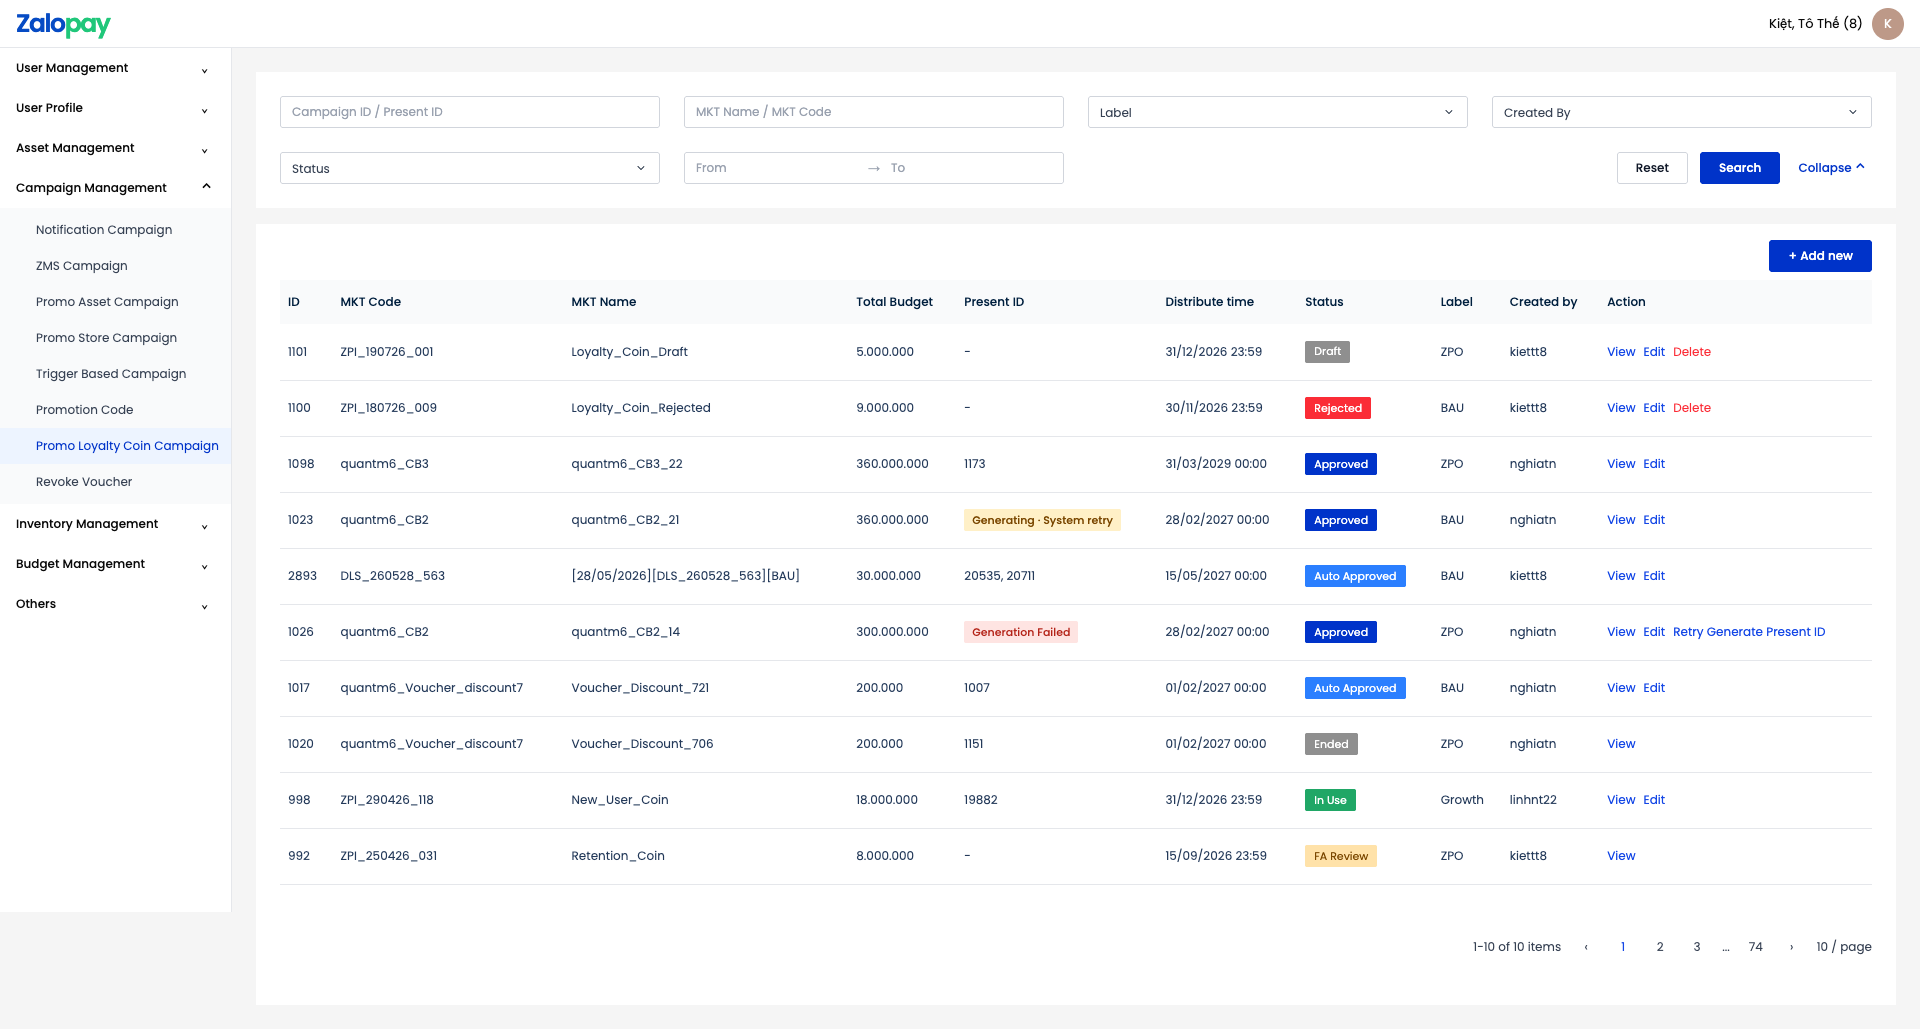
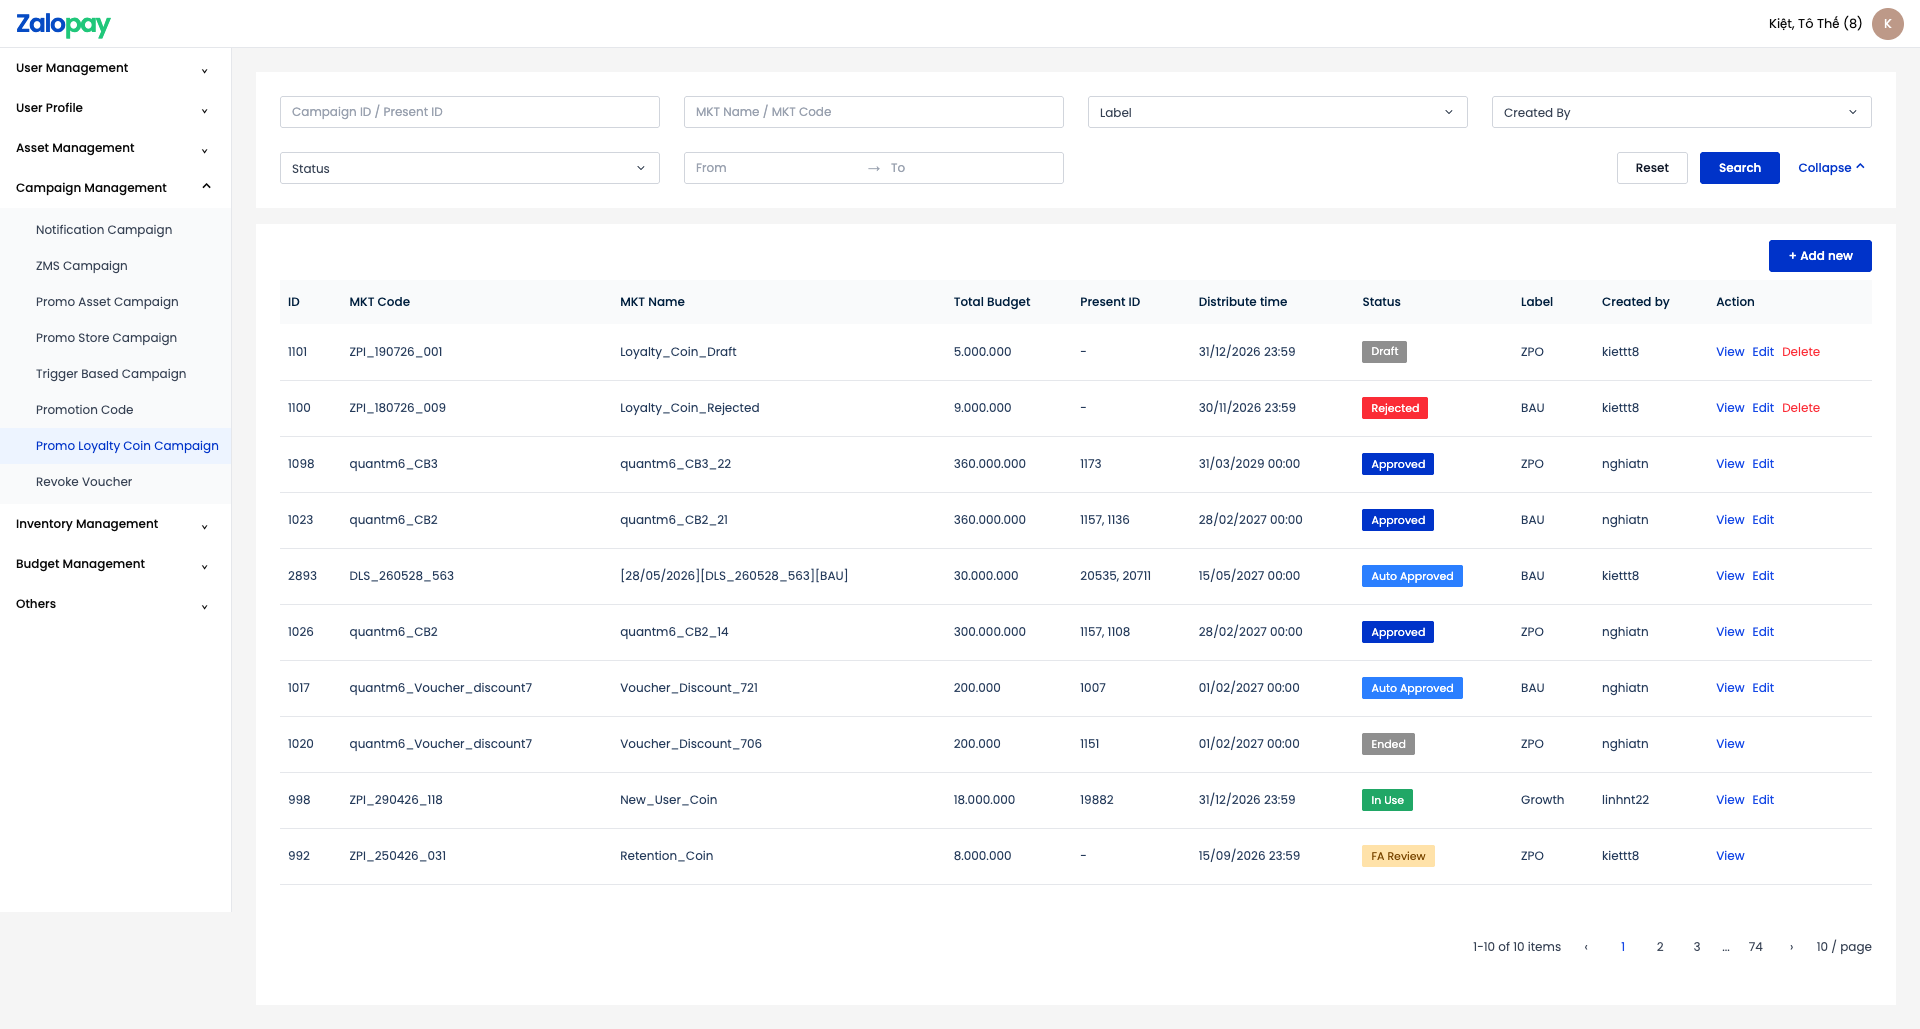
Revert "Add Present ID retry and recovery states"
This reverts commit 77b4abea8671992b141d9d23aaec8f0cdd7a74c2.

diff --git a/app.js b/app.js
@@ -34,9 +34,9 @@ const state = {
     { id: 1101, name: "Loyalty_Coin_Draft", code: "ZPI_190726_001", budget: 5000000, presents: [], coins: [300, 500], time: "31/12/2026 23:59", status: "Draft", label: "ZPO", owner: "kiettt8" },
     { id: 1100, name: "Loyalty_Coin_Rejected", code: "ZPI_180726_009", budget: 9000000, presents: [], coins: [900], time: "30/11/2026 23:59", status: "Rejected", label: "BAU", owner: "kiettt8" },
     { id: 1098, name: "quantm6_CB3_22", code: "quantm6_CB3", budget: 360000000, budgetMethod: "package", packageBudgets: [300000000], consumedBudgets: [120000000], presents: [1173], coins: [30000], time: "31/03/2029 00:00", status: "Approved", label: "ZPO", owner: "nghiatn" },
-    { id: 1023, name: "quantm6_CB2_21", code: "quantm6_CB2", budget: 360000000, budgetMethod: "package", packageBudgets: [150000000, 150000000], consumedBudgets: [80000000, 100000000], presents: [], coins: [10000, 30000], time: "28/02/2027 00:00", status: "Approved", generationStatus: "Generating", generationAttempt: 2, label: "BAU", owner: "nghiatn" },
+    { id: 1023, name: "quantm6_CB2_21", code: "quantm6_CB2", budget: 360000000, budgetMethod: "package", packageBudgets: [150000000, 150000000], consumedBudgets: [80000000, 100000000], presents: [1157, 1136], coins: [10000, 30000], time: "28/02/2027 00:00", status: "Approved", label: "BAU", owner: "nghiatn" },
     { id: 2893, name: "[28/05/2026][DLS_260528_563][BAU]", code: "DLS_260528_563", budget: 30000000, consumedBudgets: [5000000, 8000000], presents: [20535, 20711], coins: [304, 30000], time: "15/05/2027 00:00", status: "Auto Approved", label: "BAU", owner: "kiettt8" },
-    { id: 1026, name: "quantm6_CB2_14", code: "quantm6_CB2", budget: 300000000, presents: [], coins: [5000, 20000], time: "28/02/2027 00:00", status: "Approved", generationStatus: "Failed", generationAttempt: 4, generationLastError: "zpp-promotion-present timeout", generationFailedAt: "20/07/2026 09:42", label: "ZPO", owner: "nghiatn" },
+    { id: 1026, name: "quantm6_CB2_14", code: "quantm6_CB2", budget: 300000000, presents: [1157, 1108], coins: [5000, 20000], time: "28/02/2027 00:00", status: "Approved", label: "ZPO", owner: "nghiatn" },
     { id: 1017, name: "Voucher_Discount_721", code: "quantm6_Voucher_discount7", budget: 200000, budgetMethod: "package", packageBudgets: [150000], consumedBudgets: [0], presents: [1007], coins: [1000], time: "01/02/2027 00:00", status: "Auto Approved", label: "BAU", owner: "nghiatn" },
     { id: 1020, name: "Voucher_Discount_706", code: "quantm6_Voucher_discount7", budget: 200000, presents: [1151], coins: [500], time: "01/02/2027 00:00", status: "Ended", label: "ZPO", owner: "nghiatn" },
     { id: 998, name: "New_User_Coin", code: "ZPI_290426_118", budget: 18000000, budgetMethod: "package", packageBudgets: [12000000], consumedBudgets: [11000000], presents: [19882], coins: [10000], time: "31/12/2026 23:59", status: "In Use", label: "Growth", owner: "linhnt22" },
@@ -48,8 +48,6 @@ state.campaigns = state.campaigns.map((campaign, campaignIndex) => {
   const coins = campaign.coins.length ? campaign.coins : [300];
   const packageBudget = Math.floor(campaign.budget / coins.length);
   return {
-    generationStatus: campaign.generationStatus || (campaign.presents.length ? "Ready" : "Not Started"),
-    generationAttempt: campaign.generationAttempt || 0,
     budgetMethod: campaign.budgetMethod || "campaign",
     budgetType: campaign.code.startsWith("DLS_") ? "shared" : "campaign",
     allocatedBudget: campaign.budget,
@@ -134,21 +132,14 @@ function route(name, payload = {}) {
 function actionButtons(item) {
   const actions = [`<button data-view="${item.id}">View</button>`];
   if (["Draft", "Rejected", "Auto Approved", "Approved", "In Use"].includes(item.status)) actions.push(`<button data-edit="${item.id}">Edit</button>`);
-  if (item.generationStatus === "Failed") actions.push(`<button data-retry-generation="${item.id}">Retry Generate Present ID</button>`);
   if (["Draft", "Rejected"].includes(item.status)) actions.push(`<button class="danger-action" data-delete="${item.id}">Delete</button>`);
   return actions.join("");
-}
-
-function presentDisplay(item) {
-  if (item.generationStatus === "Generating") return '<span class="generation-state generating">Generating · System retry</span>';
-  if (item.generationStatus === "Failed") return '<span class="generation-state failed">Generation Failed</span>';
-  return item.presents.join(", ") || "-";
 }
 
 function renderRows(rows = state.campaigns) {
   const body = document.getElementById("campaignRows");
   body.innerHTML = rows.map(item => `<tr>
-    <td>${item.id}</td><td>${item.code}</td><td>${item.name}</td><td>${money(item.allocatedBudget)}</td><td>${presentDisplay(item)}</td><td>${item.time}</td>
+    <td>${item.id}</td><td>${item.code}</td><td>${item.name}</td><td>${money(item.allocatedBudget)}</td><td>${item.presents.join(", ") || "-"}</td><td>${item.time}</td>
     <td><span class="status ${statusClass(item.status)}">${item.status}</span></td><td>${item.label}</td><td>${item.owner}</td>
     <td><div class="row-actions">${actionButtons(item)}</div></td>
   </tr>`).join("");
@@ -182,7 +173,6 @@ function initList() {
     if (!action) return;
     if (action.dataset.view) route("form", { mode: "view", id: Number(action.dataset.view) });
     if (action.dataset.edit) route("form", { mode: "edit", id: Number(action.dataset.edit) });
-    if (action.dataset.retryGeneration) retryPresentGeneration(Number(action.dataset.retryGeneration));
     if (action.dataset.delete) {
       const id = Number(action.dataset.delete);
       state.campaigns = state.campaigns.filter(item => item.id !== id);
@@ -213,7 +203,6 @@ function initForm(options = {}) {
   bindTagInput("emailInput", "email");
   bindTagInput("thresholdInput", "threshold");
   renderPackages();
-  renderGenerationNotice(campaign);
   renderTags("email");
   renderTags("threshold");
   bindValidationClear();
@@ -239,53 +228,7 @@ function hydrateCampaignForm(campaign) {
   document.getElementById("endTime").value = campaign.endTime;
   document.getElementById("campaignLabel").value = campaign.label;
   document.getElementById("formTitle").textContent = `${state.formMode === "view" ? "View" : "Edit"} Campaign #${campaign.id}`;
-  const generationState = ["Generating", "Failed"].includes(campaign.generationStatus)
-    ? `<span class="generation-state ${campaign.generationStatus.toLowerCase()}">${campaign.generationStatus === "Generating" ? "Present ID Generating" : "Present ID Failed"}</span>`
-    : "";
-  document.getElementById("formStatus").innerHTML = `<span class="status ${statusClass(campaign.status)}">${campaign.status}</span>${generationState}`;
-}
-
-function renderGenerationNotice(campaign) {
-  const holder = document.getElementById("generationNotice");
-  if (!campaign || !["Generating", "Failed"].includes(campaign.generationStatus)) {
-    holder.replaceChildren();
-    return;
-  }
-  if (campaign.generationStatus === "Generating") {
-    holder.innerHTML = `<section class="generation-notice generating" role="status">
-      <div><strong>Đang generate Present ID</strong><p>System đang tự động xử lý attempt ${campaign.generationAttempt || 1}/4. Campaign chưa thể chuyển In Use hoặc sử dụng trong Trigger-based Campaign.</p></div>
-    </section>`;
-    return;
-  }
-  holder.innerHTML = `<section class="generation-notice failed" role="alert">
-    <div><strong>Generate Present ID thất bại</strong><p>System đã chạy 01 initial attempt + 03 auto retry nhưng vẫn lỗi. Campaign giữ status ${campaign.status}; Campaign Owner và Operations đã được gửi email.</p><small>Last error: ${campaign.generationLastError || "Unknown error"} · ${campaign.generationFailedAt || "-"}</small></div>
-    <button type="button" class="btn primary" id="retryGeneration">Retry Generate Present ID</button>
-  </section>`;
-  document.getElementById("retryGeneration").onclick = () => retryPresentGeneration(campaign.id);
-}
-
-function retryPresentGeneration(campaignId) {
-  const campaign = state.campaigns.find(item => item.id === campaignId);
-  if (!campaign || campaign.generationStatus !== "Failed") return;
-  campaign.generationStatus = "Generating";
-  campaign.generationAttempt = 1;
-  campaign.generationLastError = "";
-  campaign.generationFailedAt = "";
-  if (state.route === "list") renderRows();
-  else if (state.route === "form" && state.editingCampaignId === campaign.id) renderGenerationNotice(campaign);
-  toast(`Campaign ${campaign.id}: system bắt đầu retry Present ID.`);
-
-  setTimeout(() => {
-    campaign.presents = campaign.packages.map((pkg, index) => Number(pkg.presentId) || 23000 + campaign.id + index);
-    campaign.packages = campaign.packages.map((pkg, index) => ({ ...pkg, presentId: campaign.presents[index] }));
-    campaign.generationStatus = "Ready";
-    campaign.generationAttempt = 0;
-    const now = Date.now();
-    if (now >= new Date(campaign.startTime).getTime() && now <= new Date(campaign.endTime).getTime()) campaign.status = "In Use";
-    if (state.route === "list") renderRows();
-    else if (state.route === "form" && state.editingCampaignId === campaign.id) route("form", { mode: state.formMode, id: campaign.id });
-    toast(`Campaign ${campaign.id}: Present ID đã Ready.`);
-  }, 1200);
+  document.getElementById("formStatus").innerHTML = `<span class="status ${statusClass(campaign.status)}">${campaign.status}</span>`;
 }
 
 function applyFormAccess(campaign) {
@@ -594,7 +537,7 @@ function submitCampaign(draft) {
   const id = Math.max(...state.campaigns.map(item => item.id)) + 1;
   const presents = status === "Auto Approved" ? state.packages.map((_, index) => 21020 + index) : [];
   if (presents.length) data.packages = data.packages.map((pkg, index) => ({ ...pkg, presentId: presents[index] }));
-  state.campaigns.unshift({ ...data, id, presents, status, generationStatus: presents.length ? "Ready" : "Not Started", generationAttempt: 0, owner: "kiettt8" });
+  state.campaigns.unshift({ ...data, id, presents, status, owner: "kiettt8" });
   toast(draft ? `Campaign ${id} đã Save Draft.` : `Campaign ${id}: ${status}${status === "Auto Approved" ? ", Present ID đã generate." : "."}`);
   setTimeout(() => route("list"), 500);
 }
@@ -626,7 +569,7 @@ function saveCampaignEdit(campaign) {
 function initTrigger() {
   const campaignSelect = document.getElementById("triggerCampaign");
   const presentSelect = document.getElementById("triggerPresent");
-  const eligible = state.campaigns.filter(item => ["Approved", "Auto Approved", "In Use"].includes(item.status) && item.generationStatus === "Ready" && item.presents.length);
+  const eligible = state.campaigns.filter(item => ["Approved", "Auto Approved", "In Use"].includes(item.status) && item.presents.length);
   campaignSelect.innerHTML += eligible.map(item => `<option value="${item.id}">${item.id} - ${item.name}</option>`).join("");
   campaignSelect.onchange = () => {
     const campaign = eligible.find(item => item.id === Number(campaignSelect.value));

diff --git a/styles.css b/styles.css
@@ -98,7 +98,6 @@ tbody tr:hover { background: #fbfdff; }
 .crm-section { border: 1px solid var(--border); background: white; margin-bottom: 20px; }
 .crm-section > h1, .action-detail > h1 { height: 56px; display: flex; align-items: center; margin: 0; padding: 0 24px; background: var(--panel-head); border-bottom: 1px solid var(--border); color: #001f3e; font-size: 16px; font-weight: 600; }
 .section-title-row { justify-content: space-between; }
-#formStatus { display: flex; align-items: center; gap: 8px; }
 .section-content { padding: 24px; }
 .basic-fields { display: grid; grid-template-columns: repeat(4, minmax(160px, 1fr)); gap: 16px 24px; }
 .field { display: flex; flex-direction: column; gap: 7px; min-width: 0; }
@@ -120,15 +119,6 @@ tbody tr:hover { background: #fbfdff; }
 .package-fields .package-budget { grid-column: 1; }
 .remove-package { position: absolute; top: 12px; right: 16px; width: 28px; height: 28px; border: 1px solid #ffc8cd; color: var(--danger); background: white; border-radius: 3px; }
 .add-package { width: auto; margin: 0 0 20px 6px; }
-.generation-state { display: inline-flex; min-height: 22px; align-items: center; border-radius: 2px; padding: 2px 8px; font-size: 11px; font-weight: 500; line-height: 1.35; white-space: nowrap; }
-.generation-state.generating { color: #7a4700; background: #fff0c7; }
-.generation-state.failed { color: #b42318; background: #fee4e2; }
-.generation-notice { min-height: 76px; display: flex; align-items: center; justify-content: space-between; gap: 20px; margin: 0 0 20px; padding: 14px 18px; border: 1px solid; background: white; }
-.generation-notice.generating { border-color: #f4c76c; background: #fffaf0; }
-.generation-notice.failed { border-color: #fda29b; background: #fff6f5; }
-.generation-notice strong { display: block; margin-bottom: 4px; color: var(--strong); font-size: 13px; }
-.generation-notice p { margin: 0; color: #243a5a; line-height: 1.55; }
-.generation-notice small { display: block; margin-top: 5px; color: var(--muted); }
 .alert-fields { display: grid; grid-template-columns: 1fr 1fr; gap: 8px; }
 .tag-control { min-height: 32px; display: flex; align-items: center; gap: 4px; border: 1px solid var(--control-border); border-radius: 3px; padding: 2px 7px; }
 .tag-control.readonly { background: #f3f4f6; }

diff --git a/index.html b/index.html
@@ -91,7 +91,6 @@
         </div>
       </section>
 
-      <div id="generationNotice"></div>
       <div id="packages"></div>
       <button type="button" class="btn primary add-package" id="addPackage">Add new Package</button>
 

diff --git a/PRODUCT.md b/PRODUCT.md
@@ -39,14 +39,6 @@ Quen thuộc, chính xác, tiết chế. UI phải nhìn như một phần có s
 - Khi Business edit Package Budget, UI preview Remaining Budget ngay nhưng Save phải revalidate bằng latest consumed snapshot.
 - Không hiển thị Estimated Budget hoặc Budget dư.
 
-## Present ID Generation Rules
-
-- Campaign status và Present Generation Status là hai state riêng.
-- System chạy `01 initial attempt + tối đa 03 auto retry`; chỉ retry package lỗi và không generate lại Present ID đã thành công.
-- Trong lúc `Generating`, campaign giữ `Auto Approved`/`Approved`, không chuyển `In Use` và không xuất hiện trong Trigger-based Campaign.
-- Sau khi hết retry, generation chuyển `Failed`; list/form phải báo rõ cho user và Operations có action `Retry Generate Present ID`.
-- Manual retry mở một generation cycle mới. Khi `Ready`, campaign được expose cho Trigger-based; nếu Start Time đã qua nhưng chưa tới End Time thì chuyển `In Use` ngay.
-
 ## Accessibility & Inclusion
 
 Keyboard usable, focus visible, label không thay bằng placeholder, semantic status không chỉ dựa vào màu và hỗ trợ reduced motion.
